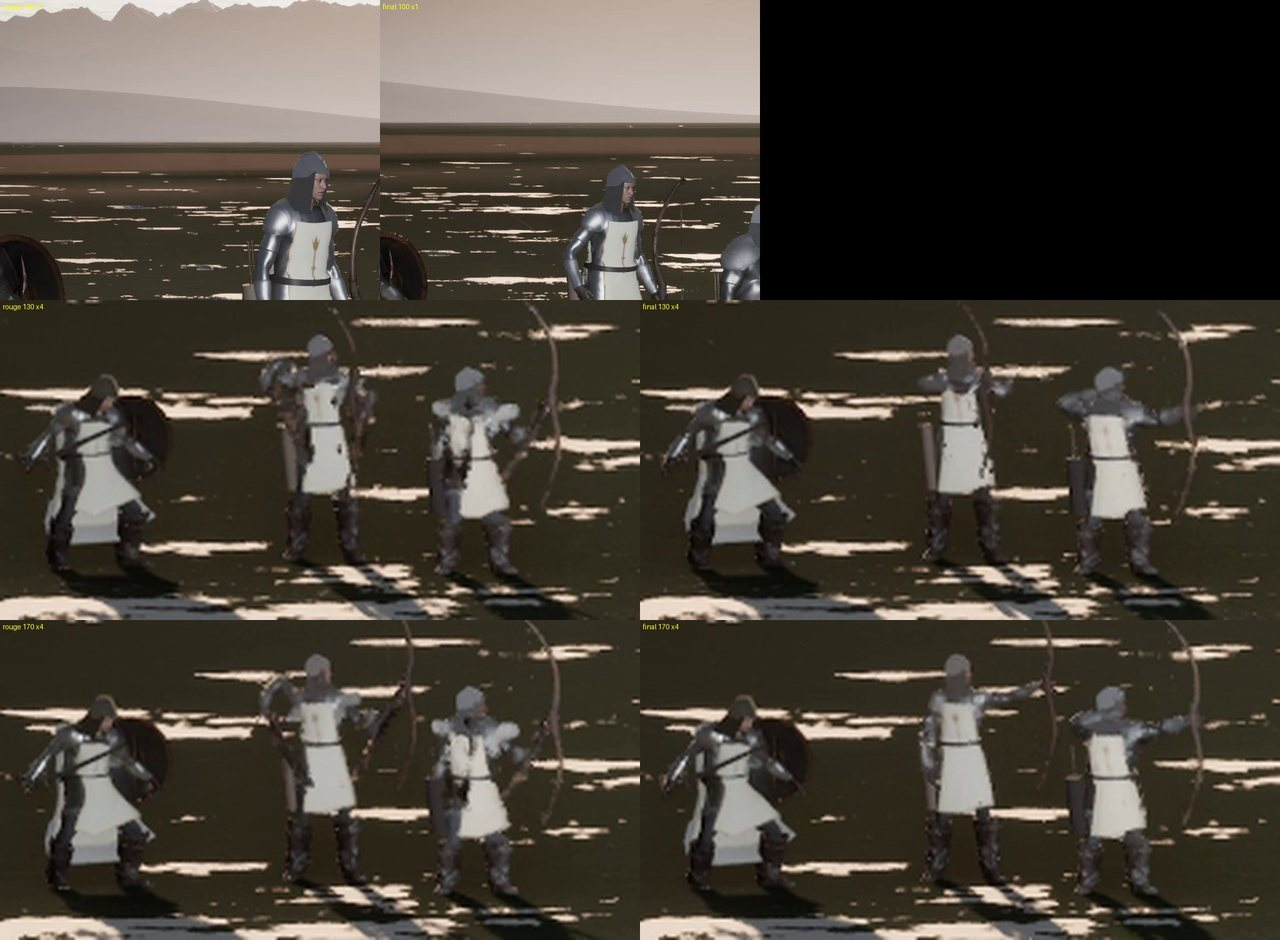
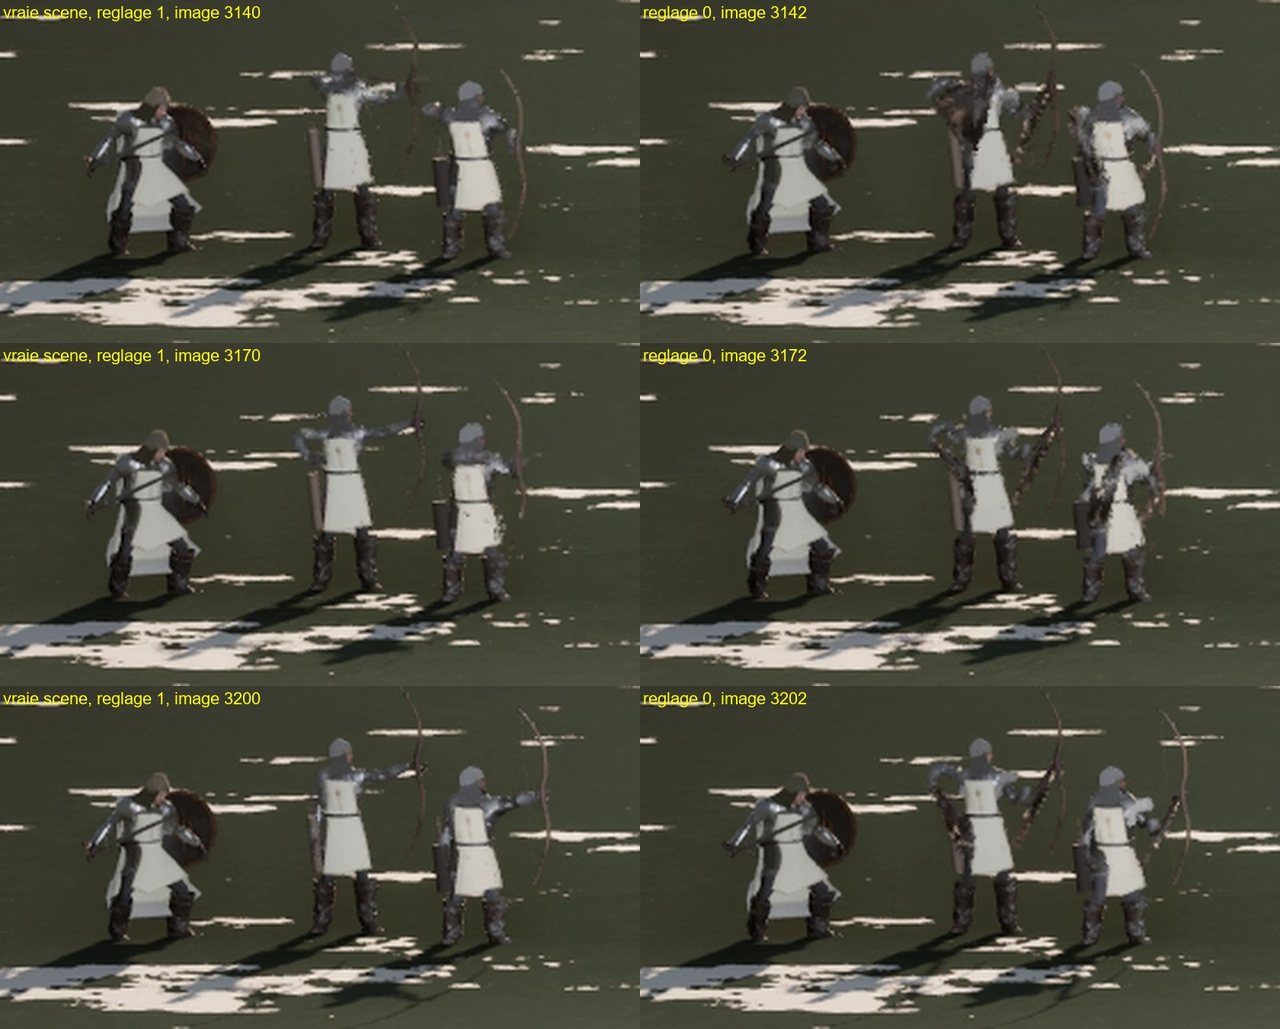
T-0369 valide ; T-0371 et T-0372 lances ; T-0373 ecrit

diff --git a/semaines/2026-10-27/pages/jour-2026-11-01/page.html b/semaines/2026-10-27/pages/jour-2026-11-01/page.html
@@ -95,7 +95,7 @@ ul.liste{margin:0;padding-left:1.1rem;display:grid;gap:.4rem}
   <div class="surtitre">Projet AAA · suivi · dimanche 1er novembre 2026 · semaine du 27 octobre au 2 novembre</div>
   <h1>Jour <em>6</em></h1>
   <p class="lecture">Le PC reste en continu, carte graphique et processeur (<span class="insec">D-323</span>). Hier soir, le héros a joué pour la première fois les animations faites dans Blender. Aujourd&#x27;hui : vérifier ce résultat, puis les rochers, les déclencheurs de voix et le didacticiel sur la carte, et brancher au jeu le réveil, l&#x27;épée et le reflet.</p>
-  <p class="ticket">Mise à jour : 01/11/2026 à 04:07</p>
+  <p class="ticket">Mise à jour : 01/11/2026 à 06:33</p>
   <nav class="sommaire" aria-label="Sommaire">
     <a href="#resume">Résumé</a><a href="#files">Files de travail</a><a href="#modeles">Modèles 3D</a><a href="#journal">Journal</a><a href="#questions">Questions</a>
   </nav>
@@ -104,7 +104,7 @@ ul.liste{margin:0;padding-left:1.1rem;display:grid;gap:.4rem}
 
 <section id="resume">
   <h2>Résumé</h2>
-  <div class="compteurs" aria-label="Tickets par état"><span class="etat e-a-faire">9 à faire</span><span class="etat e-verification">1 en vérification</span><span class="etat e-valide">3 validés</span></div>
+  <div class="compteurs" aria-label="Tickets par état"><span class="etat e-a-faire">9 à faire</span><span class="etat e-en-cours">2 en cours</span><span class="etat e-valide">4 validés</span></div>
   <ul class="liste lecture">
     <li>Le poste reste rendu en continu (<span class="insec">D-323</span>) ; suite de la page d&#x27;hier.</li>
     <li>File carte : <strong><span class="insec">T-0355</span></strong> en vérification (le héros joue les animations de Blender, à deux réglages près).</li>
@@ -113,6 +113,11 @@ ul.liste{margin:0;padding-left:1.1rem;display:grid;gap:.4rem}
     <li><strong><span class="insec">T-0355</span> validé</strong> : le héros joue les animations de Blender ; l&#x27;escalade dépasse le plan d&#x27;environ 4,5 h.</li>
     <li><strong>Défaut trouvé dans le jeu d&#x27;aujourd&#x27;hui</strong> : un lambeau sombre sur la main pendant le sort, plan 5.5 : <strong><span class="insec">T-0369</span></strong>, sur la carte.</li>
     <li><strong><span class="insec">T-0368</span> validé</strong> : genou posé au sol. <strong><span class="insec">T-0370</span></strong> sur le processeur : manches et trou du flanc du gambison.</li>
+    <li>Le poste reste rendu en continu (<span class="insec">D-323</span>) ; suite de la page d&#x27;hier.</li>
+    <li><strong><span class="insec">T-0369</span> validé</strong> : le lambeau du sort est parti, d&#x27;une ligne de réglage qui corrige aussi les archers.</li>
+    <li><strong><span class="insec">T-0355</span> validé</strong> : le héros joue les animations de Blender ; l&#x27;escalade dépasse le plan d&#x27;environ 4,5 h.</li>
+    <li><strong><span class="insec">T-0368</span>, <span class="insec">T-0370</span> validés</strong> : genou posé au sol ; gambison repris, poing visible, trou du flanc fermé.</li>
+    <li>En cours : <strong><span class="insec">T-0371</span></strong> sur la carte (import du gambison), <strong><span class="insec">T-0372</span></strong> sur le processeur (reports). Ensuite : rochers, puis le réveil joué dans le jeu (<strong><span class="insec">T-0373</span></strong>).</li>
   </ul>
 </section>
 
@@ -132,8 +137,9 @@ ul.liste{margin:0;padding-left:1.1rem;display:grid;gap:.4rem}
     <div class="piste"><span class="ticket"><span class="insec">T-0364</span> · <span class="insec">P1-22</span> · <span class="insec">D-323</span></span><h3>Le défaut intermittent de l&#x27;arc de la patrouille</h3><p class="muted">Un parcours a été rouge une fois sur quatre, sans lien avec le ticket en cours : trouver la cause.</p><span class="etat e-a-faire">À faire</span><p class="note">Écrit ; après <span class="insec">T-0359</span>.</p></div>
     <div class="piste"><span class="ticket"><span class="insec">T-0366</span> · <span class="insec">P1-22</span> · <span class="insec">D-323</span></span><h3>Les rochers noirs qui semblent flotter dans le ciel</h3><p class="muted">Vus par le Chef sur les images de <span class="insec">T-0363</span> : savoir ce que c&#x27;est, les recenser par script, corriger ceux que le joueur voit.</p><span class="etat e-a-faire">À faire</span><p class="note">Écrit ; après <span class="insec">T-0355</span>, avant de refilmer S4 et S5.</p></div>
     <div class="piste"><span class="ticket"><span class="insec">T-0345</span> · <span class="insec">D-323</span></span><h3>Regard à la manette</h3><p class="muted">Réglage du regard à la manette.</p><span class="etat e-a-faire">À faire</span></div>
-    <div class="piste"><span class="ticket"><span class="insec">T-0369</span> · <span class="insec">D-304</span> · <span class="insec">D-322</span> (17) · <span class="insec">D-323</span></span><h3>Le lambeau de la canalisation : le corriger dans le jeu</h3><p class="muted">Pendant le sort en vue TPS, un lambeau sombre part de la main vers le sol (plan 5.5). Essai de deux remèdes sur la vraie scène ; sinon, le repli de <span class="insec">D-322</span> (17). Un contrôle qui voit enfin le défaut.</p><span class="etat e-verification">En vérification</span><p class="note">Livré vers 03:45 : le lambeau est parti, les pieds restent tenus : une ligne de réglage (a.UseSafeMeshPoseIndices=1), provisoire, sans coût mesurable. Le même réglage corrige un défaut nouveau : bras et armure des archers arrachés. Paquet non essayé. Vérificateur lancé à 03:46, sur la carte.</p></div>
-    <div class="piste"><span class="ticket"><span class="insec">T-0371</span> · <span class="insec">D-304</span> · <span class="insec">D-323</span> · <span class="insec">P1-07</span></span><h3>Importer le gambison v3 dans le jeu</h3><p class="muted">Dix étapes, dont le corps sous la tenue à relancer, sinon on voit le vide dans le poignet. La vraie roulade, seule preuve pour le flanc.</p><span class="etat e-a-faire">À faire</span><p class="note">Après la vérification de <span class="insec">T-0369</span> : un seul agent dans Unreal.</p></div>
+    <div class="piste"><span class="ticket"><span class="insec">T-0369</span> · <span class="insec">D-304</span> · <span class="insec">D-322</span> (17) · <span class="insec">D-323</span></span><h3>Le lambeau de la canalisation : le corriger dans le jeu</h3><p class="muted">Pendant le sort en vue TPS, un lambeau sombre part de la main vers le sol (plan 5.5). Essai de deux remèdes sur la vraie scène ; sinon, le repli de <span class="insec">D-322</span> (17). Un contrôle qui voit enfin le défaut.</p><span class="etat e-valide">Validé</span><p class="note">Validé à 06:33. Le lambeau est parti sur les 140 images regardées, les pieds restent tenus ; le réglage corrige aussi archers et PNJ ; forgeron, héros, horde, bêtes et reflet inchangés à la comparaison. Il vaut dans un paquet Development, essayé. Test et Shipping lus, à contrôler à la fin.</p></div>
+    <div class="piste"><span class="ticket"><span class="insec">T-0371</span> · <span class="insec">D-304</span> · <span class="insec">D-323</span> · <span class="insec">P1-07</span></span><h3>Importer le gambison v3 dans le jeu</h3><p class="muted">Dix étapes, dont le corps sous la tenue à relancer, sinon on voit le vide dans le poignet. La vraie roulade, seule preuve pour le flanc.</p><span class="etat e-en-cours">En cours</span><p class="note">Lancé à 06:33 sur la carte.</p></div>
+    <div class="piste"><span class="ticket"><span class="insec">T-0373</span> · <span class="insec">D-304</span> · <span class="insec">D-319</span> (3) · <span class="insec">D-320</span> (32) · <span class="insec">P1-09</span> · <span class="insec">P1-22</span></span><h3>Le réveil joué dans le jeu</h3><p class="muted">Se relever, ramasser l&#x27;épée, s&#x27;agenouiller au point d&#x27;eau, joués par le héros sur le vrai terrain, et le parcours qui les joue. Sans l&#x27;écran de création.</p><span class="etat e-a-faire">À faire</span><p class="note">Après <span class="insec">T-0371</span> et <span class="insec">T-0366</span>.</p></div>
   </div>
   <p class="suite">Après <span class="insec">T-0339</span> : <span class="insec">T-0321</span> (l&#x27;Ange), <span class="insec">T-0355</span> (animations de Blender dans Unreal), <span class="insec">T-0328</span> (voix de l&#x27;entité), <span class="insec">T-0331</span> (affichage), <span class="insec">T-0332</span> (montée de niveau), <span class="insec">T-0345</span> (regard à la manette), <span class="insec">P1-21</span> (sons).</p>
 </div>
@@ -144,6 +150,7 @@ ul.liste{margin:0;padding-left:1.1rem;display:grid;gap:.4rem}
     <div class="piste"><span class="ticket"><span class="insec">T-0336</span> · <span class="insec">P2-02</span> · <span class="insec">D-160</span> · <span class="insec">D-323</span></span><h3>Trois premières images du hameau</h3><p class="muted">Une maison, l&#x27;auberge, la forge, générées avec Codex, pour juger l&#x27;aspect avant le lot entier.</p><span class="etat e-a-faire">À faire</span><p class="note">Arrêté à 21:01 au premier appel : la limite de Codex (ChatGPT Plus) est atteinte jusqu&#x27;au 04/11/2026 à 8:04. 0 image. À relancer après cette date ; autres options posées au directeur.</p></div>
     <div class="piste"><span class="ticket"><span class="insec">T-0368</span> · <span class="insec">D-304</span> · <span class="insec">D-323</span> · <span class="insec">T-0330</span> · <span class="insec">T-0355</span></span><h3>Refaire les 5 FBX du réveil et du reflet, genou posé abaissé</h3><p class="muted">Les bandes de la tenue neuve flottent de 3 à 5 cm au genou posé : essai des trois soustractions de <span class="insec">T-0355</span>, sur le processeur, dans un dossier à part.</p><span class="etat e-valide">Validé</span><p class="note">Validé à 00:43. Bandes au sol à chaque genou posé (+0,29 à +0,48 cm), recalculées à part par le vérificateur. Le mouvement ne claque pas. Deux réserves acceptées, provisoires : 2 sommets de peau sous le pantalon ; bout de botte dans sa tige, invisible en vue FPS. Reste à importer dans Unreal.</p></div>
     <div class="piste"><span class="ticket"><span class="insec">T-0370</span> · <span class="insec">D-304</span> · <span class="insec">D-323</span> · <span class="insec">P1-07</span></span><h3>Reprendre le gambison : manches et trou du flanc</h3><p class="muted">La manche avale la main en escalade et en vue FPS ; un vrai trou de 15 cm sous l&#x27;aisselle ; une trame adoucie à essayer. Dans Blender, dossier à part.</p><span class="etat e-valide">Validé</span><p class="note">Validé à 04:07. Le poing se voit (de 32 % à 100 % du cycle, dans le dos), le trou du flanc est fermé, la trame adoucie retenue, à titre provisoire. De près, la reprise du flanc se voit : à reprendre avant un plan rapproché. Reste à importer : <span class="insec">T-0371</span>.</p></div>
+    <div class="piste"><span class="ticket"><span class="insec">T-0372</span> · <span class="insec">D-152</span> · <span class="insec">D-323</span></span><h3>Reports du 1er novembre</h3><p class="muted">Escalade, tenue, lambeau, contrôle du paquet, et les restes des reports d&#x27;hier.</p><span class="etat e-en-cours">En cours</span><p class="note">Lancé à 06:33 sur le processeur.</p></div>
   </div>
   <p class="suite">Après le recalcul : la présentation aux investisseurs remise à jour, puis d&#x27;autres tickets sans carte.</p>
 </div>
@@ -161,16 +168,16 @@ ul.liste{margin:0;padding-left:1.1rem;display:grid;gap:.4rem}
   <p class="chemins">Sur le PC : E:\aaa-proto\essai\heros-reveil\controles-t0368\planche_genou.jpg</p>
 </article>
 <article class="modele" id="mod-t0369-lambeau">
-  <div class="tete"><h3>Le lambeau du plan 5.5, avant et après</h3><span class="etat e-verification">En vérification</span></div>
+  <div class="tete"><h3>Le lambeau du plan 5.5, avant et après</h3><span class="etat e-valide">Validé</span></div>
   <p class="ticket"><span class="insec">T-0369</span> · <span class="insec">D-322</span> (17) · <span class="insec">D-323</span></p>
   <figure><img src="images/t0369-lambeau.jpg" alt="Image : Le lambeau du plan 5.5, avant et après" width="1280" height="738" loading="lazy"><figcaption>Plan 5.5, vraie scène, mêmes images. En haut, avant : la bande sombre qui part de la main, images 1924 à 1928. En bas, après le réglage : plus rien.</figcaption></figure>
   <p class="chemins">Sur le PC : E:\aaa-proto\unreal-v2\mesures\t0369\planche_avant_apres.jpg</p>
 </article>
 <article class="modele" id="mod-t0369-remede">
-  <div class="tete"><h3>Les archers de la patrouille, avant et après</h3><span class="etat e-verification">En vérification</span></div>
+  <div class="tete"><h3>Les archers de la patrouille, avant et après</h3><span class="etat e-valide">Validé</span></div>
   <p class="ticket"><span class="insec">T-0369</span> · <span class="insec">D-323</span></p>
-  <figure><img src="images/t0369-remede.jpg" alt="Image : Les archers de la patrouille, avant et après" width="1280" height="940" loading="lazy"><figcaption>À gauche, avant : bras et armure arrachés sur les archers qui tirent, un défaut que personne n&#x27;avait vu. À droite, après le même réglage.</figcaption></figure>
-  <p class="chemins">Sur le PC : E:\aaa-proto\unreal-v2\mesures\t0369\patrouille_rouge_final.jpg</p>
+  <figure><img src="images/t0369-remede.jpg" alt="Image : Les archers de la patrouille, avant et après" width="1280" height="1029" loading="lazy"><figcaption>Vraie scène. À gauche, après le réglage ; à droite, avant : bras et armure arrachés sur les archers qui tirent, un défaut que personne n&#x27;avait vu.</figcaption></figure>
+  <p class="chemins">Sur le PC : E:\aaa-proto\verif-tmp\t0369-verif\regard\patrouille_vraie_scene.jpg</p>
 </article>
 <article class="modele" id="mod-t0370-gambison">
   <div class="tete"><h3>Gambison : manches et flanc, avant et après</h3><span class="etat e-verification">En vérification</span></div>
@@ -198,6 +205,7 @@ ul.liste{margin:0;padding-left:1.1rem;display:grid;gap:.4rem}
     <div class="entree"><time>03:14</time><p><span class="insec">T-0370</span> livré : la main sort de la manche, le trou du flanc est fermé dans Blender. Vérificateur lancé sur le processeur. <span class="insec">T-0369</span> est toujours sur la carte.</p></div>
     <div class="entree"><time>03:46</time><p><span class="insec">T-0369</span> livré : lambeau parti d&#x27;une ligne de réglage, qui corrige aussi les archers. Vérificateur lancé sur la carte.</p></div>
     <div class="entree"><time>04:07</time><p><span class="insec">T-0370</span> validé : gambison repris dans Blender. <span class="insec">T-0371</span> écrit, pour l&#x27;importer dès que la carte est libre.</p></div>
+    <div class="entree"><time>06:33</time><p><span class="insec">T-0369</span> validé. <span class="insec">T-0371</span> lancé sur la carte, <span class="insec">T-0372</span> sur le processeur ; <span class="insec">T-0373</span> écrit (réveil, épée, point d&#x27;eau joués dans le jeu).</p></div>
   </div>
 </section>
 
